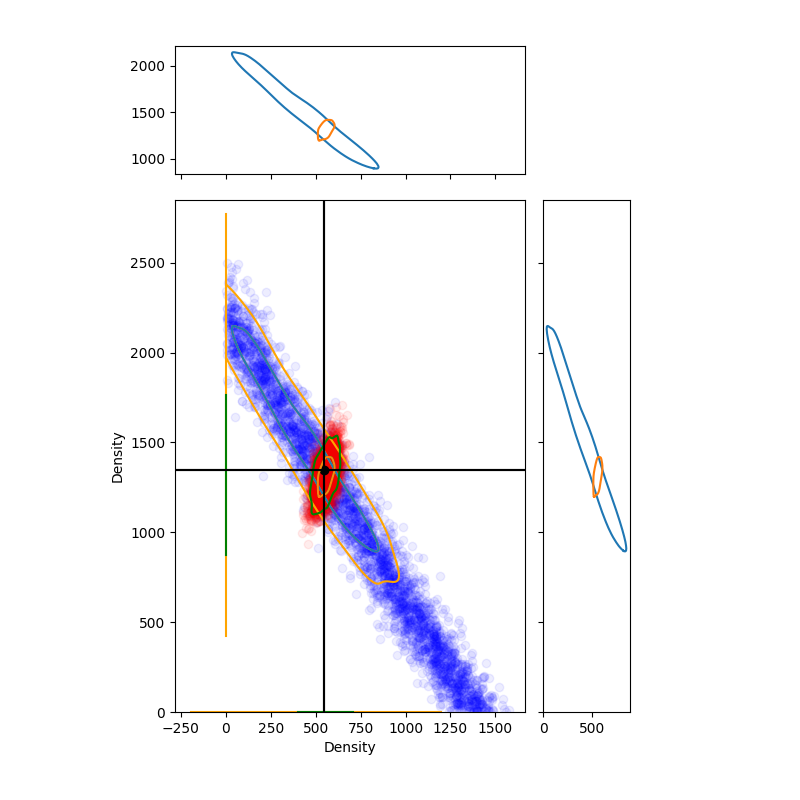
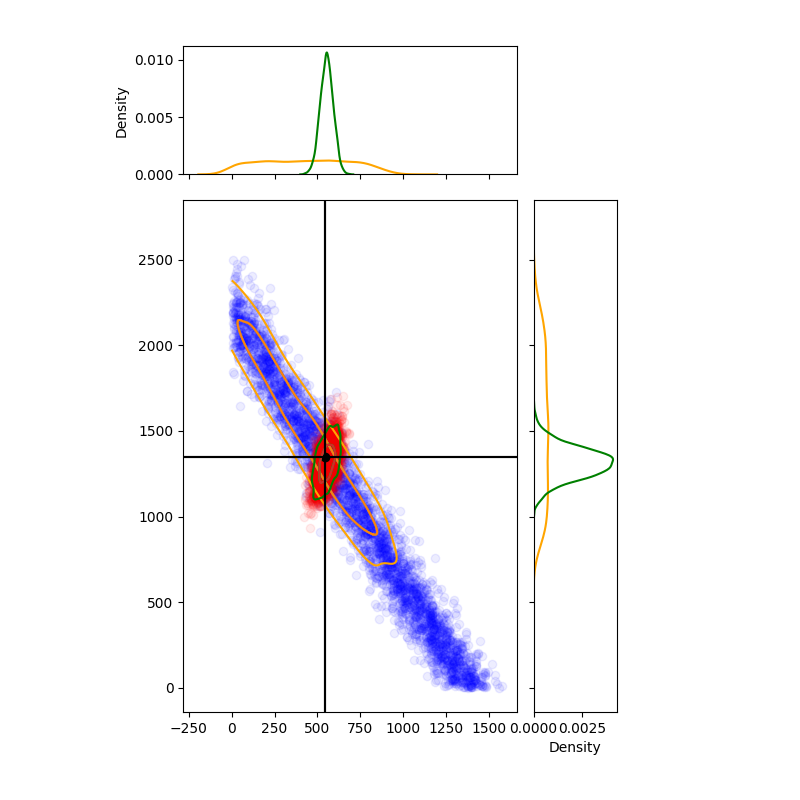
cut at axes and cut at diagonal works in playing with contours, plot_posterior still doesn't work properly even with copy pasting the function

diff --git a/plot_posterior.py b/plot_posterior.py
@@ -85,17 +85,59 @@ class PlotPosterior:
 
         return rotated_data1, rotated_data2
 
-
-    def extract_vertices(self, contour):
+    def get_xy_from_contour(self, contour):
         path = contour.collections[-1].get_paths()[0]
-        vertices = path.vertices
 
-        return vertices
+        contour_x = path.vertices.T[0]
+        contour_y = path.vertices.T[1]
+
+        return contour_x, contour_y
+
+    def cut_contour_at_axes(self, contour):
+        path = contour.collections[-1].get_paths()[0]
+
+        contour_x = path.vertices.T[0]
+        contour_y = path.vertices.T[1]
+
+        filter = np.intersect1d(np.where(contour_x > 0), np.where(contour_y > 0))
+
+        path.vertices = path.vertices[filter]
+
+        contour_x = path.vertices.T[0]
+        contour_y = path.vertices.T[1]
+
+        extended_contour_x = np.zeros(shape=(len(contour_x) + 2,))
+        extended_contour_y = np.zeros(shape=(len(contour_y) + 2,))
+
+        extended_contour_x[1: -1] = contour_x
+        extended_contour_y[1: -1] = contour_y
+
+        return extended_contour_x, extended_contour_y
 
 
-    def close_contour(self, path):
-        path.vertices[-1] = path.vertices[0]
-        path.closed = True
+    def cut_contour_at_diagonal(self, contour):
+        path = contour.collections[-1].get_paths()[0]
+
+        contour_x = path.vertices.T[0]
+        contour_y = path.vertices.T[1]
+
+        filter = np.where(contour_y > contour_x)
+
+        path.vertices = path.vertices[filter]
+
+        contour_x = path.vertices.T[0]
+        contour_y = path.vertices.T[1]
+
+        extended_contour_x = np.zeros(shape=(len(contour_x) + 1,))
+        extended_contour_y = np.zeros(shape=(len(contour_y) + 1,))
+
+        extended_contour_x[0: -1] = contour_x
+        extended_contour_y[0: -1] = contour_y
+
+        extended_contour_x[-1] = contour_x[0]
+        extended_contour_y[-1] = contour_y[0]
+
+        return extended_contour_x, extended_contour_y
 
 
     def scatter_hist(self, x, y, ax, injected_x, injected_y, ax_histx, ax_histy, scatter_color='blue', **kwargs):
@@ -119,40 +161,25 @@ class PlotPosterior:
         ax_histx.tick_params(axis="x", labelbottom=False)
         ax_histy.tick_params(axis="y", labelleft=False)
 
-        main_contour = sns.kdeplot(x=kde_x, y=kde_y, levels=[0.1, 0.5], clip=clip, **kwargs)
-        x_contour = sns.kdeplot(x=kde_x, **kwargs)
-        y_contour = sns.kdeplot(y=kde_y, **kwargs)
+        main_ninety_contour = sns.kdeplot(x=kde_x, y=kde_y, levels=[0.1], clip=clip, **kwargs)
+        main_fifty_contour = sns.kdeplot(x=kde_x, y=kde_y, levels=[0.5], clip=clip, **kwargs)
 
-        contours = [main_contour, x_contour, y_contour]
-        vertices_list = [self.extract_vertices(contour) for contour in contours]
+        main_ninety_x, main_ninety_y = self.get_xy_from_contour(main_ninety_contour)
+        main_fifty_x, main_fifty_y = self.get_xy_from_contour(main_fifty_contour)
 
-        for vertices in vertices_list:
-            vertex_x, vertex_y = zip(*vertices)
-            vertex_x = np.array(vertex_x)
-            vertex_y = np.array(vertex_y)
-            if self.limit_at_axes:
-                filter = np.intersect1d(np.where(vertex_x > 0), np.where(vertex_y > 0))
-            if self.limit_at_diagonal:
-                filter = np.where(vertex_y > vertex_x)
-            vertices = vertices[filter]
-
-        for contour in contours:
-            path = contour.collections[-1].get_paths()[0]
-            self.close_contour(path)
-
-        main_vertices = vertices_list[0]
-        xhist_vertices = vertices_list[1]
-        yhist_vertices = vertices_list[2]
-
-        main_x, main_y = zip(*main_vertices)
-        xhist_x, xhist_y = zip(*xhist_vertices)
-        yhist_x, yhist_y = zip(*yhist_vertices)
+        if self.limit_at_axes:
+            main_ninety_x, main_ninety_y = self.cut_contour_at_axes(main_ninety_contour)
+            main_fifty_x, main_fifty_y = self.cut_contour_at_axes(main_fifty_contour)
+        if self.limit_at_diagonal:
+            main_ninety_x, main_ninety_y = self.cut_contour_at_diagonal(main_ninety_contour)
+            main_fifty_x, main_fifty_y = self.cut_contour_at_diagonal(main_fifty_contour)
 
         ax.scatter(x, y, alpha=0.07, color=scatter_color)
-        ax.plot(main_x, main_y)
+        ax.plot(main_ninety_x, main_ninety_y)
+        ax.plot(main_fifty_x, main_fifty_y)
 
-        ax_histx.plot(xhist_x, xhist_y)
-        ax_histy.plot(yhist_x, yhist_y)
+        sns.kdeplot(x=kde_x, ax=ax_histx, **kwargs)
+        sns.kdeplot(y=kde_y, ax=ax_histy, **kwargs)
 
         ax.axvline(injected_x, color='black')
         ax.axhline(injected_y, color='black')

diff --git a/playing_with_contours.py b/playing_with_contours.py
@@ -56,7 +56,7 @@ def cut_contour_at_diagonal(path):
 
 
 
-ax = sns.kdeplot(x=x, y=y, levels=[0.1])
+ax = sns.kdeplot(x=x, y=y, levels=[0.1, 0.5])
 path = ax.collections[-1].get_paths()[0]
 # print(path)
 contour_x, contour_y = cut_contour_at_diagonal(path)
